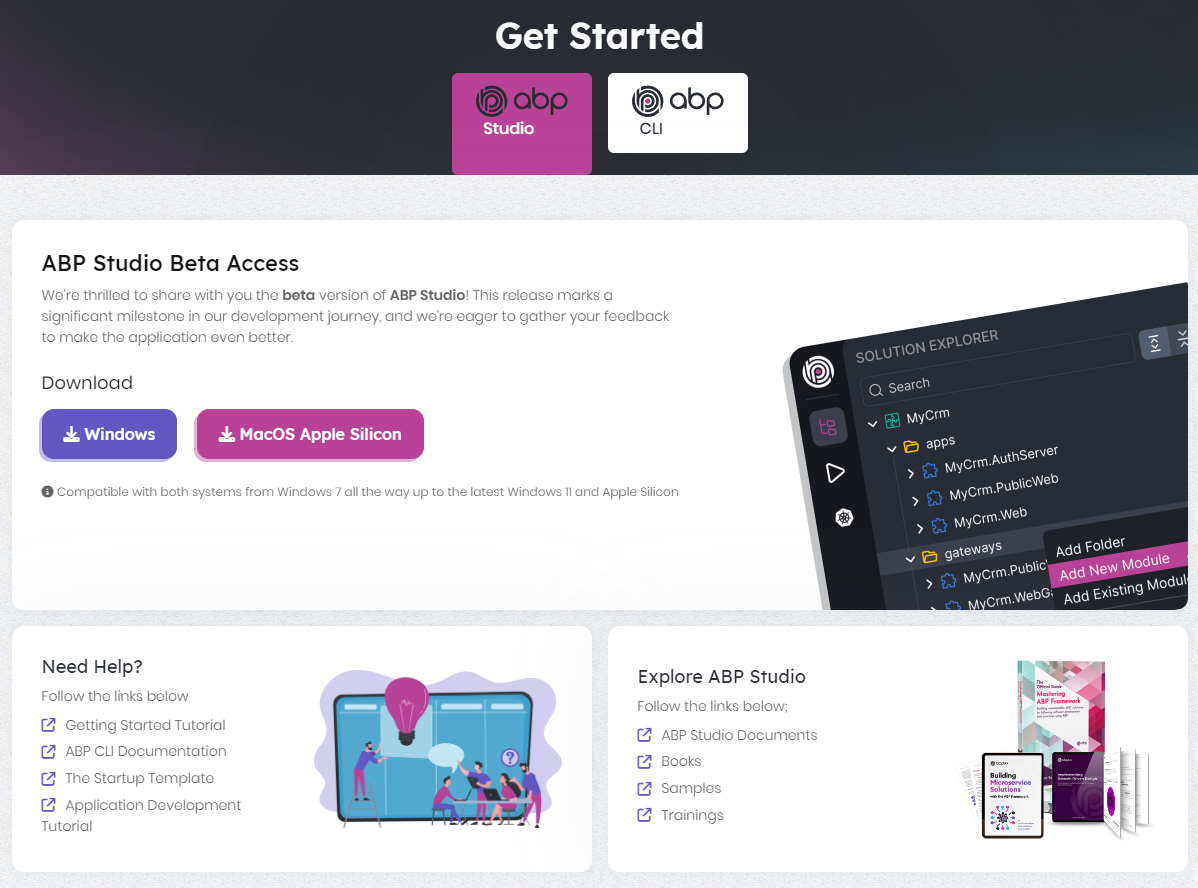
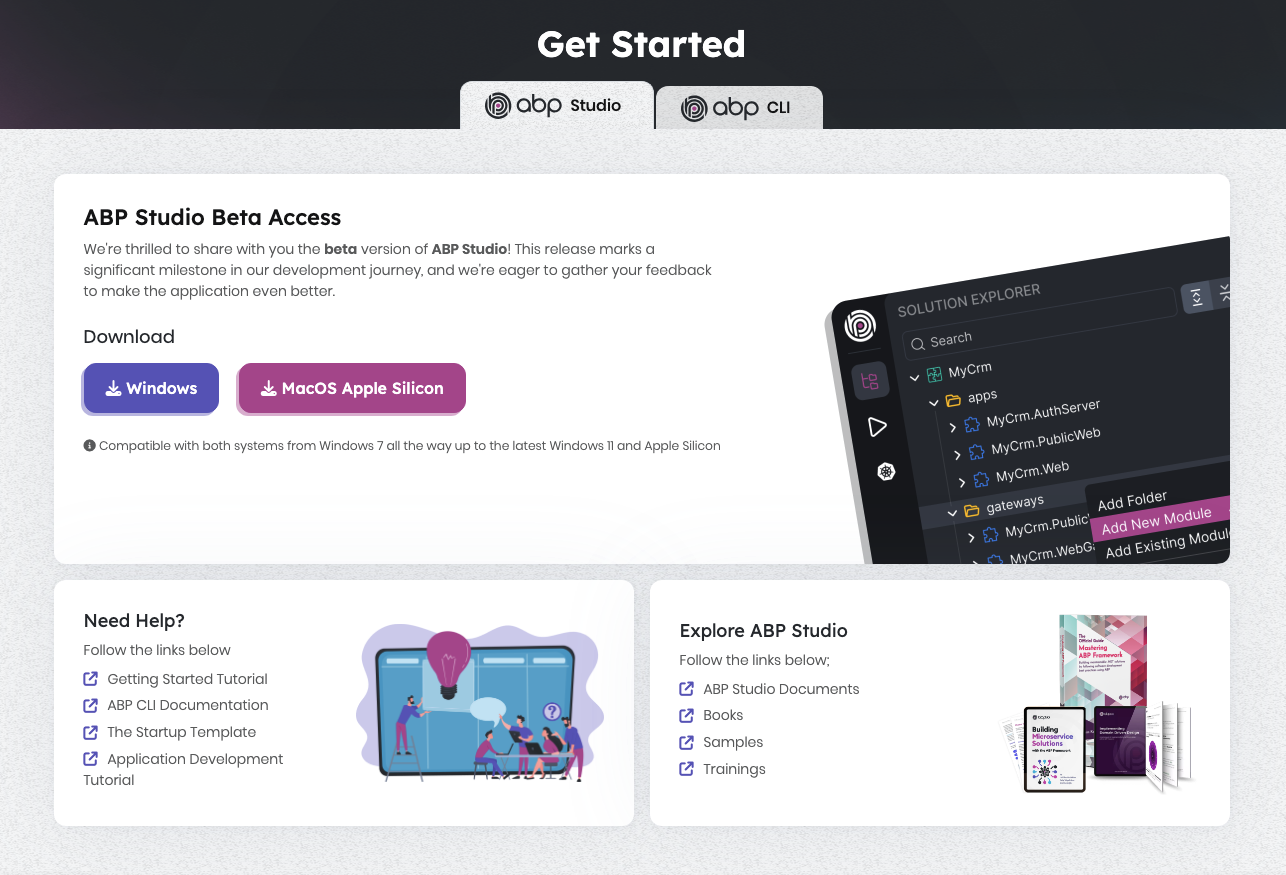
Fixed the picture

Changed region(s): [[0.0, 0.2469, 1.0, 0.9874], [0.0, 0.0309, 1.0, 0.5863]]

diff --git a/docs/en/Blog-Posts/2024-05 ABP Unification/post.md b/docs/en/Blog-Posts/2024-05 ABP Unification/post.md
@@ -45,8 +45,6 @@ We believe that new mega menu will allow you to navigate through the web pages m
 
 We are constantly working to improve ABP's onboarding experience. With the new platform changes, we now offer ABP Studio as the starting point for the ABP Platform. You can still use the [ABP CLI](https://docs.abp.io/en/abp/latest/CLI) to created new ABP solutions, but the new ABP Studio makes it much easier and understandable. It also provides features to easily run and monitor your applications, even in the Community edition.
 
-***TODO: UPDATE THE PICTURE***
-
 ![new-get-started](new-get-started.png)
 
 You can easily download and install ABP Studio, login with your abp.io account and create your first ABP solution.
